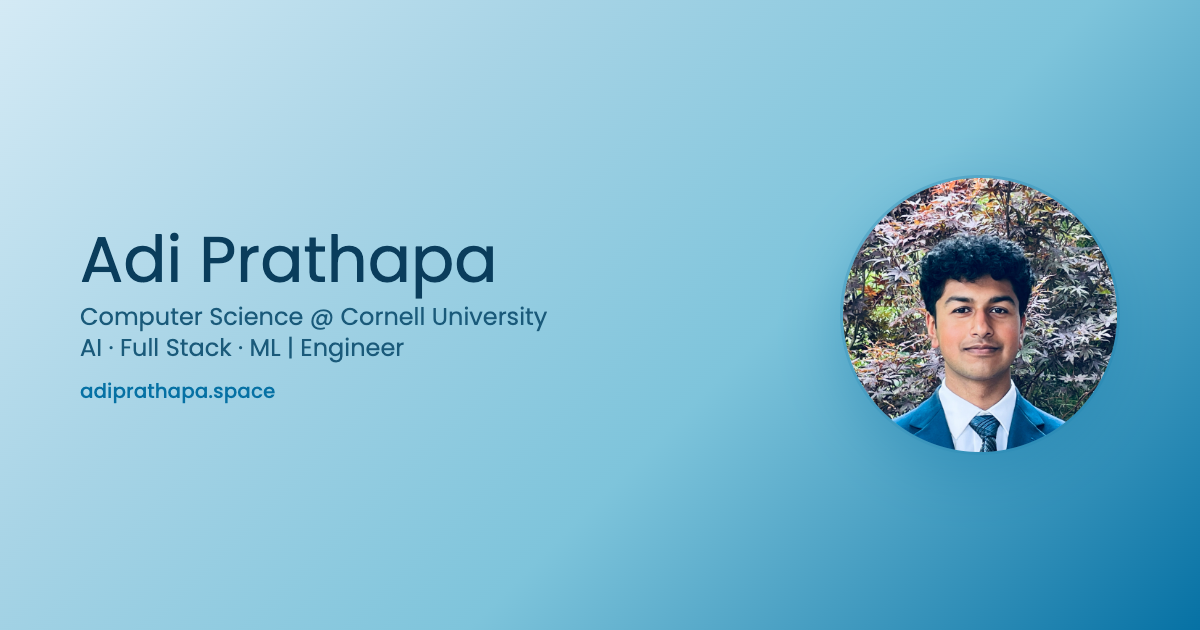
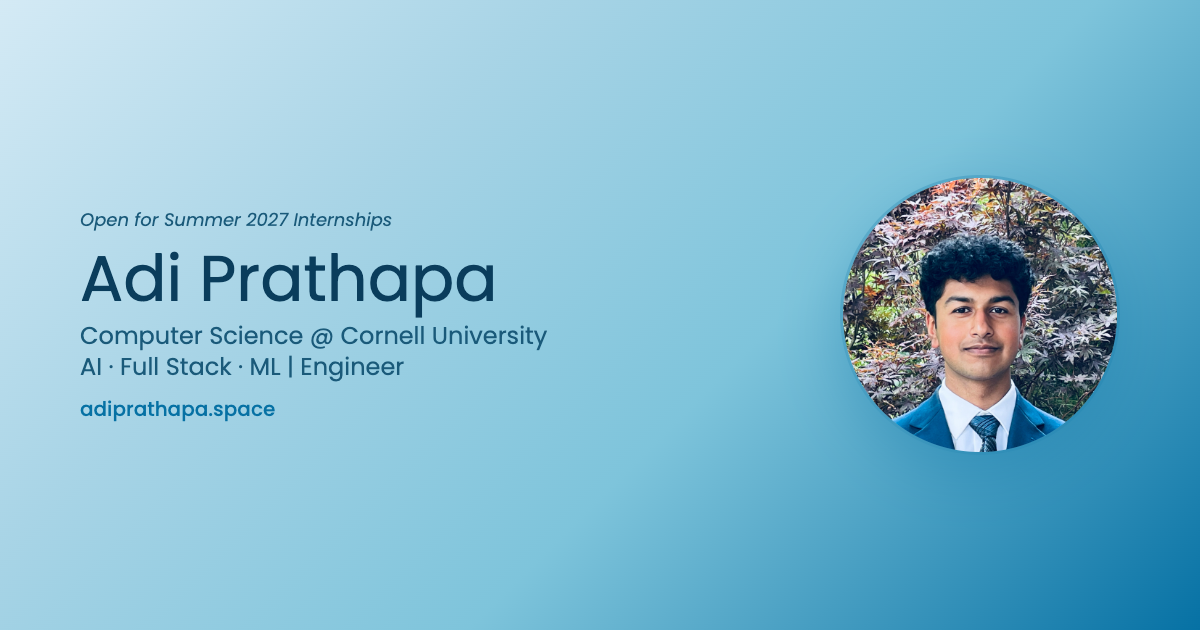
updated

Changed region(s): [[0.0617, 0.3317, 0.4625, 0.6635]]

diff --git a/src/components/Education.tsx b/src/components/Education.tsx
@@ -10,6 +10,7 @@ type EduItem = {
   school: string
   degree: string
   period: string
+  date: string
   description: string
   bullets: string[]
   bgImage: string
@@ -22,6 +23,7 @@ const items: EduItem[] = [
     school: 'Cornell University',
     degree: 'B.A. Computer Science',
     period: 'Ithaca, NY',
+    date: 'Anticipated 2028',
     description: 'College of Arts and Sciences and Ann S. Bowers College of Computing and Information Science, minor in Artificial Intelligence.',
     bullets: [
       'Data Structures, Object-Oriented Programming, Theory of Computation, Discrete Math, Python Design and Development, Calculus 1, Calculus 2, Linear Algebra for Engineers',
@@ -34,6 +36,7 @@ const items: EduItem[] = [
     school: 'Millard North High School',
     degree: 'International Baccalaureate Diploma',
     period: 'Omaha, NE',
+    date: '',
     description: 'Math Higher Level, Biology Higher Level, English Higher Level, Psychology Standard Level, Spanish Standard Level, Music Standard Level.',
     bullets: [
       'AP Spanish, AP Human Geography, AP World History, AP Physics, AP Computer Science Principles',
@@ -111,10 +114,11 @@ function ListRow({
             {item.school}
           </span>
           <span
-            className={`${isActive ? 'text-sm sm:text-base' : 'hidden text-sm sm:inline sm:text-base'} leading-relaxed`}
+            className={`${isActive ? 'text-sm sm:text-base' : 'hidden text-sm sm:inline sm:text-base'} leading-relaxed text-right`}
             style={{ color: isActive ? '#0671A4' : '#7A7D72' }}
           >
-            {item.period}
+            <span className="block">{item.period}</span>
+            {isActive && item.date && <span className="block" style={{ color: '#7A7D72', fontSize: '0.85em' }}>{item.date}</span>}
           </span>
         </span>
 
@@ -205,7 +209,9 @@ export function Education() {
             className="mt-3 max-w-2xl text-base md:text-lg leading-relaxed"
             style={{ color: '#4B5563' }}
           >
-            Academic foundation from Omaha, Nebraska to Ithaca, New York.
+            {activeId === 'cornell'
+              ? 'Pursuing a B.A. in Computer Science with a minor in AI at Cornell University.'
+              : 'Earned my IB Diploma at Millard North High School.'}
           </p>
         </div>
       </div>

diff --git a/src/components/Experience.tsx b/src/components/Experience.tsx
@@ -663,7 +663,7 @@ export function Experience() {
               style={{ color: '#4B5563' }}
             >
               I have experience in software engineering, research, and full stack development.
-              Looking for Software and AI/ML engineering internship roles.
+              Looking for Summer 2027 Software and AI/ML engineering internship roles.
             </p>
           </div>
 

diff --git a/src/components/Footer.tsx b/src/components/Footer.tsx
@@ -13,7 +13,7 @@ const footerLinks = [
 
 const resourceLinks = [
   { label: 'Resume', href: RESUME_PAGE_URL },
-  { label: 'Cal', href: '/calendar.html' },
+  { label: 'Calendar', href: '/calendar.html' },
 ]
 
 export function Footer() {
